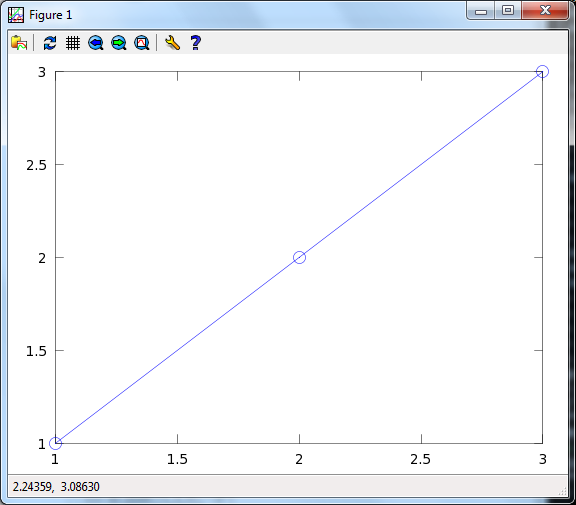
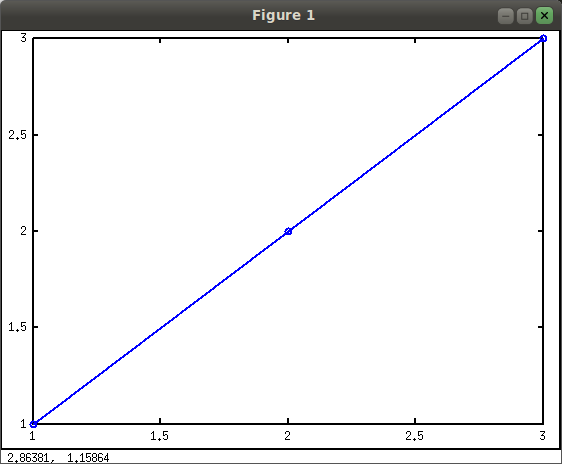
Update the demo page and plot

diff --git a/oct2py/demo.py b/oct2py/demo.py
@@ -10,7 +10,7 @@ import time
 from .compat import PY2
 
 
-def demo(delay=2, interactive=True):
+def demo(delay=1, interactive=True):
     """
     Play a demo script showing most of the oct2py api features.
 
@@ -77,4 +77,4 @@ def demo(delay=2, interactive=True):
         exec(line)
 
 if __name__ == '__main__':  # pragma: no cover
-    demo(delay=0.5)
+    demo(delay=0.25)

diff --git a/docs/source/demo.rst b/docs/source/demo.rst
@@ -22,7 +22,7 @@ To run interactively:
     >>> print(oc.upper('xyz'))
     XYZ
     >>> # plotting
-    >>> oc.plot([1,2,3],'-o')
+    >>> oc.plot([1,2,3],'-o', linewidth=2)
     Press Enter to continue...
 
 .. image:: static/plot.png
